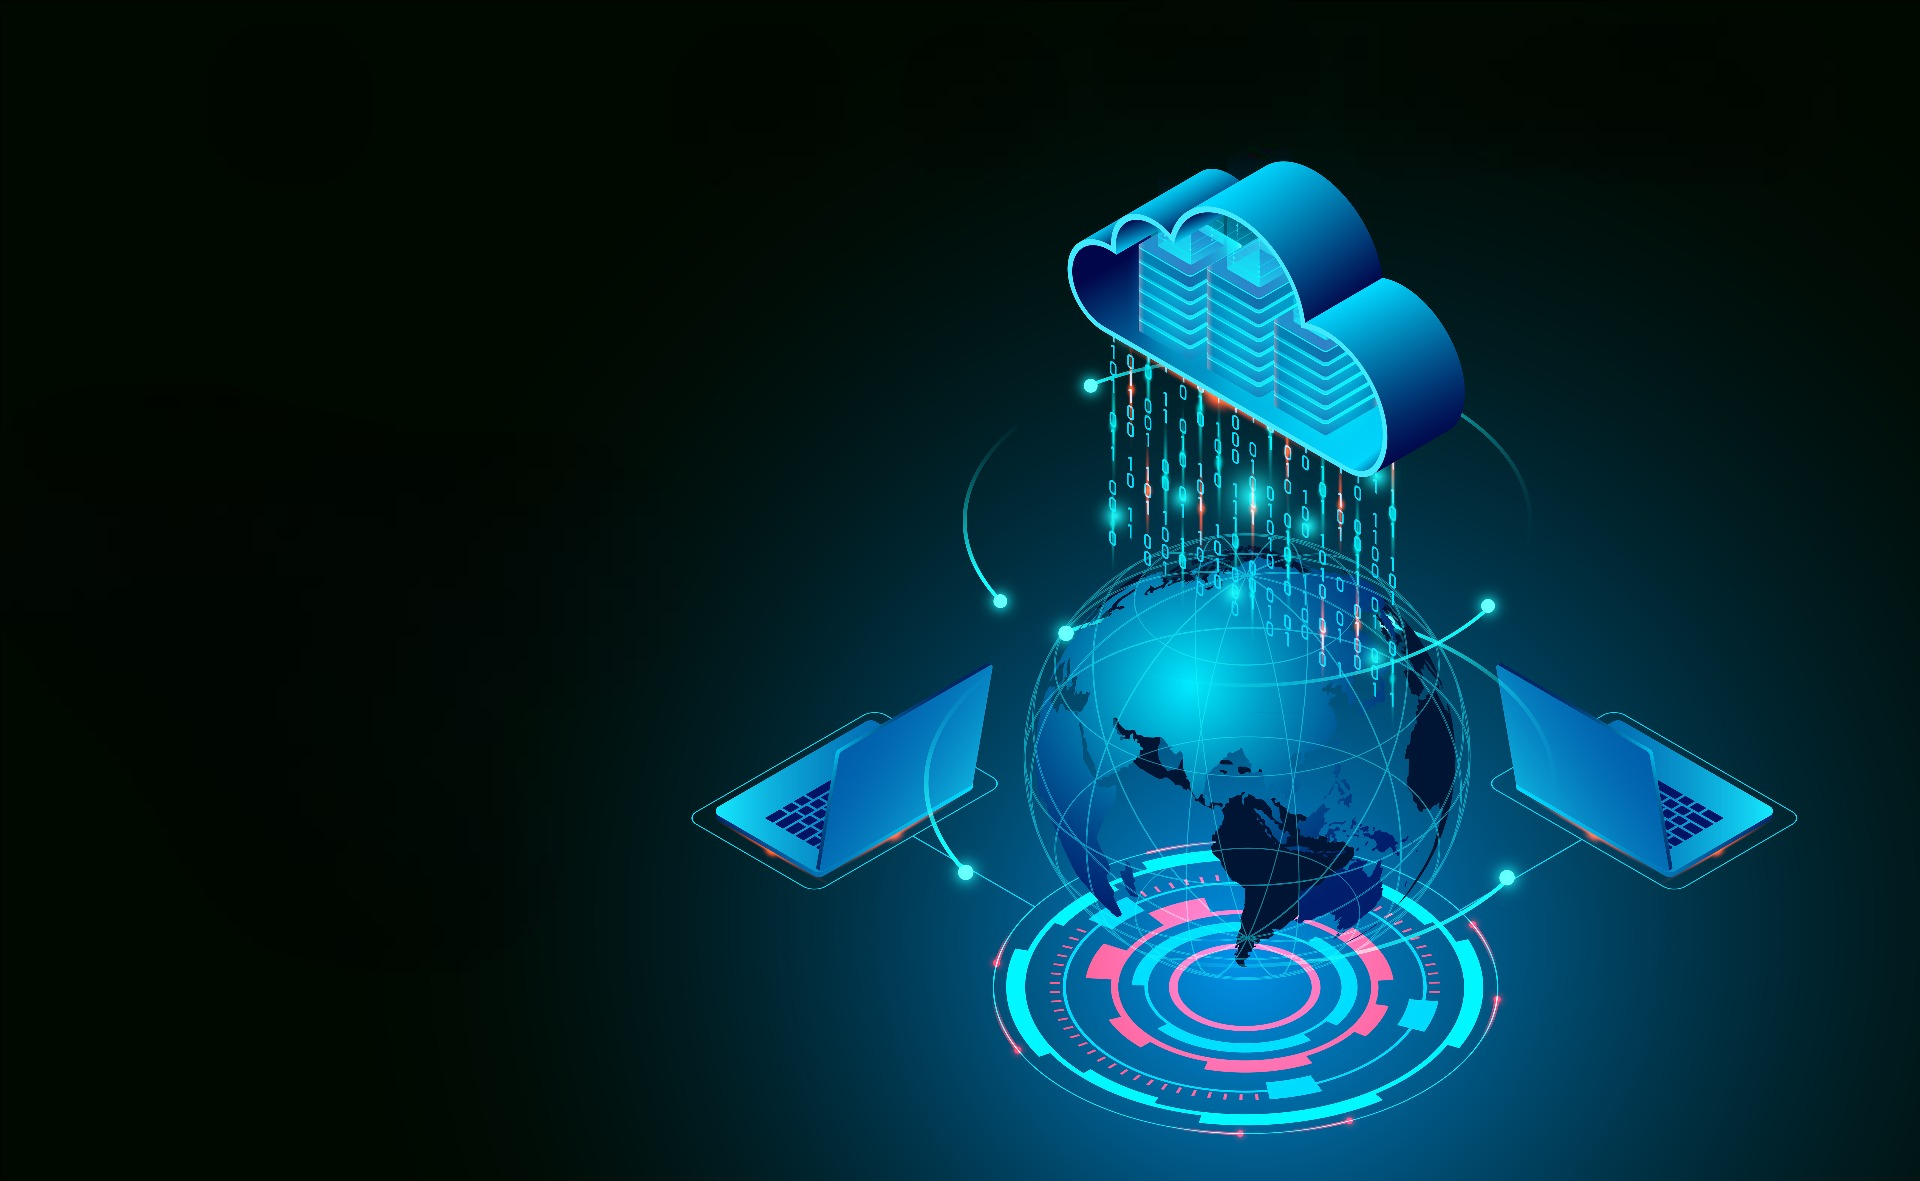
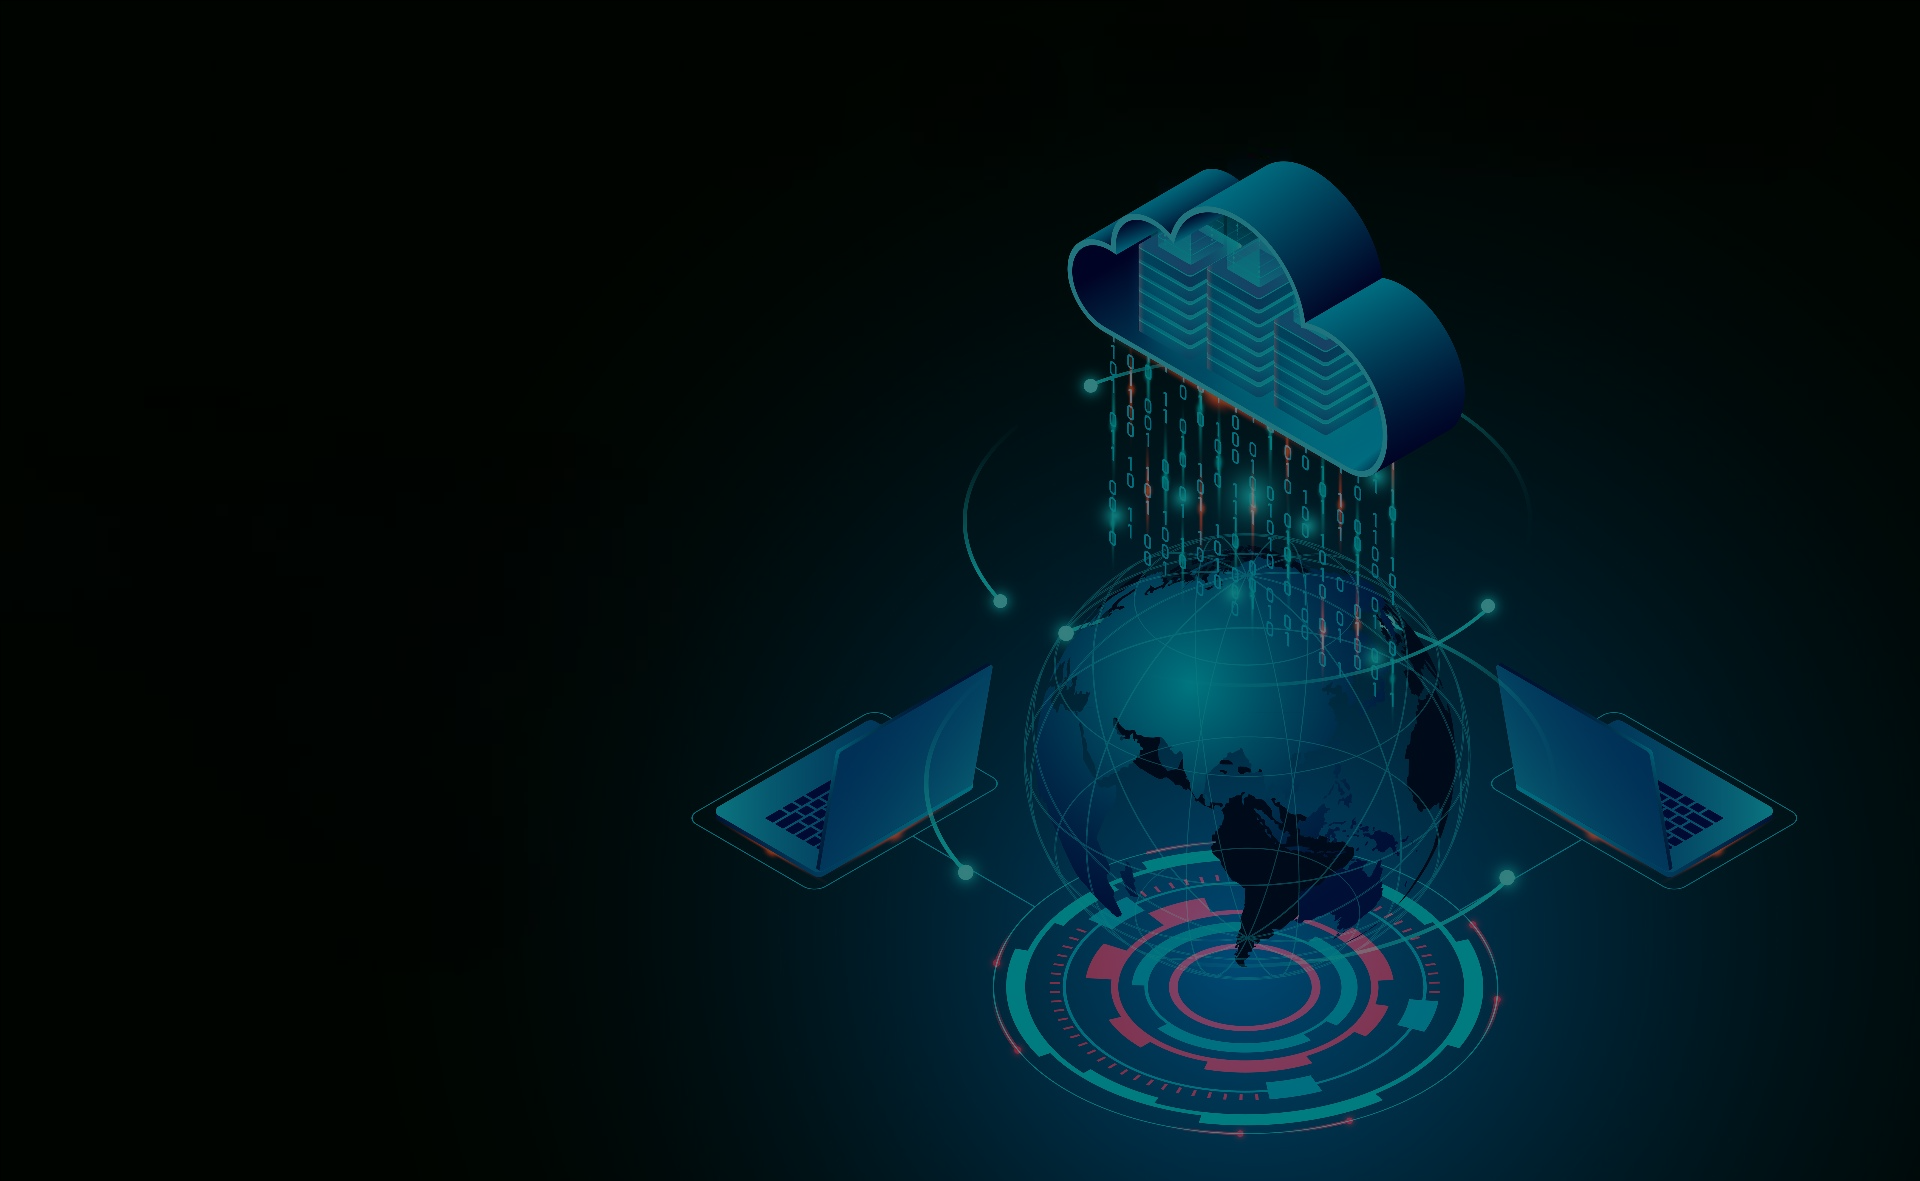
Thumbnail images swapped, links added to homepage

diff --git a/index.html b/index.html
@@ -42,8 +42,8 @@ de mercado. </div>
                         dados estatísticos de produtividade e paradas de máquinas. Gerencie os principais indicadores de
                         desempenho, disponibilidade e qualidade de suas instalações com geração automática de KPIs.</div>
                     <div class="buttons">
-                        <button type="button" onclick="window.location.href='http://www.google.com';">Saiba mais</button>
-                        <button type="button" onclick="window.location.href='http://www.google.com';">Newsletter</button>
+                    <button type="button" onclick="window.location.href='./modals/remoteManegement.html';">Saiba mais</button>
+                    <button type="button" onclick="window.location.href='./modals/remoteManegement.html';">Newsletter</button>
                     </div>
                 </div>
             </div>
@@ -59,8 +59,8 @@ funcionamento for detectado.  Saiba quando e por quanto tempo o gerador entrou e
 histórico de desempenho de cada máquina individualmente. Compartilhe com os seus clientes a monitoração dos geradores 
 locados através acesso exclusivo via celular.</div>
                     <div class="buttons">
-                        <button type="button" onclick="window.location.href='http://www.google.com';">Saiba mais</button>
-                        <button type="button" onclick="window.location.href='http://www.google.com';">Newsletter</button>
+                    <button type="button" onclick="window.location.href='./modals/remoteManegement.html';">Saiba mais</button>
+                    <button type="button" onclick="window.location.href='./modals/remoteManegement.html';">Newsletter</button>
                     </div>
                 </div>
             </div>
@@ -76,8 +76,8 @@ interfaces WiFi, ETHERNET e RS232/RS485 para comunicação em alto nível com in
 medidores mássicos, analisadores de qualidade de água, entre outros dispositivos, utilizando os mais diversos 
 protocolos de comunicação de mercado.</div>
                     <div class="buttons">
-                        <button type="button" onclick="window.location.href='http://www.google.com';">Saiba mais</button>
-                        <button type="button" onclick="window.location.href='http://www.google.com';">Newsletter</button>
+                    <button type="button" onclick="window.location.href='./modals/remoteManegement.html';">Saiba mais</button>
+                    <button type="button" onclick="window.location.href='./modals/remoteManegement.html';">Newsletter</button>
                     </div>
                 </div>
             </div>
@@ -92,8 +92,8 @@ protocolos de comunicação de mercado.</div>
 está adequado bem como receba do módulo de Inteligência Artificial de nossa plataforma sugestões para reduzir o custo da
 energia ou evitar pagar multa por demanda ou baixo fator de potência. </div>
                     <div class="buttons">
-                        <button type="button" onclick="window.location.href='http://www.google.com';">Saiba mais</button>
-                        <button type="button" onclick="window.location.href='http://www.google.com';">Newsletter</button>
+                    <button type="button" onclick="window.location.href='./modals/remoteManegement.html';">Saiba mais</button>
+                    <button type="button" onclick="window.location.href='./modals/remoteManegement.html';">Newsletter</button>
                     </div>
                 </div>
             </div>
@@ -103,7 +103,7 @@ energia ou evitar pagar multa por demanda ou baixo fator de potência. </div>
 
         <div class="thumbnail">
             <div class="item">
-                <img src="image/img1.png">
+                <img src="image/thumb1.png">
                 <div class="content">
                     <div class="title">
                         Gerenciamento Remoto de Dispositivos
@@ -112,7 +112,7 @@ energia ou evitar pagar multa por demanda ou baixo fator de potência. </div>
                 </div>
             </div>
             <div class="item">
-                <img src="image/img5.jpg">
+                <img src="image/thumb5.jpg">
                 <div class="content">
                     <div class="title">
                         Gestão Industrial
@@ -121,7 +121,7 @@ energia ou evitar pagar multa por demanda ou baixo fator de potência. </div>
                 </div>
             </div>
             <div class="item">
-                <img src="image/img2.png">
+                <img src="image/thumb2.png">
                 <div class="content">
                     <div class="title">
                         Telemetria de Geradores
@@ -131,7 +131,7 @@ energia ou evitar pagar multa por demanda ou baixo fator de potência. </div>
             </div>
             
             <div class="item">
-                <img src="image/img3.png">
+                <img src="image/thumb3.png">
                 <div class="content">
                     <div class="title">
                         Saneamento
@@ -140,7 +140,7 @@ energia ou evitar pagar multa por demanda ou baixo fator de potência. </div>
                 </div>
             </div>
             <div class="item">
-                <img src="image/img4.png">
+                <img src="image/thumb4.png">
                 <div class="content">
                     <div class="title">
                         Gestão de energia

diff --git a/index.css b/index.css
@@ -33,6 +33,7 @@ body{
     width: 100%;
     height: 100%;
     z-index: 1;
+    pointer-events: none;
 }
 
 .carousel .list .item img{
@@ -81,14 +82,6 @@ body{
     cursor: pointer;
     pointer-events: auto;
 }
-.carousel .list .item .buttons button{
-    background-color: transparent;
-    border: 1px solid #fff;
-    color: #eee;
-    cursor: pointer;
-    pointer-events: auto;
-}
-
 /* thumbail */
 .thumbnail{
     position: absolute;
@@ -208,7 +201,7 @@ body{
 .des{
     font-size: 1.25em;
 }
-/* animation text in first item */
+/* animation text items */
 .carousel .list .item .content .title,
 .carousel .list .item .content .topic,
 .carousel .list .item .content .des,

diff --git a/pages/contact.css b/pages/contact.css
@@ -127,6 +127,7 @@
     width: 40%;
     padding: 25px;
     background: #fff;
+    margin-top: -19%;
 }
 .contactForm h2{
     font-size: 30px;
